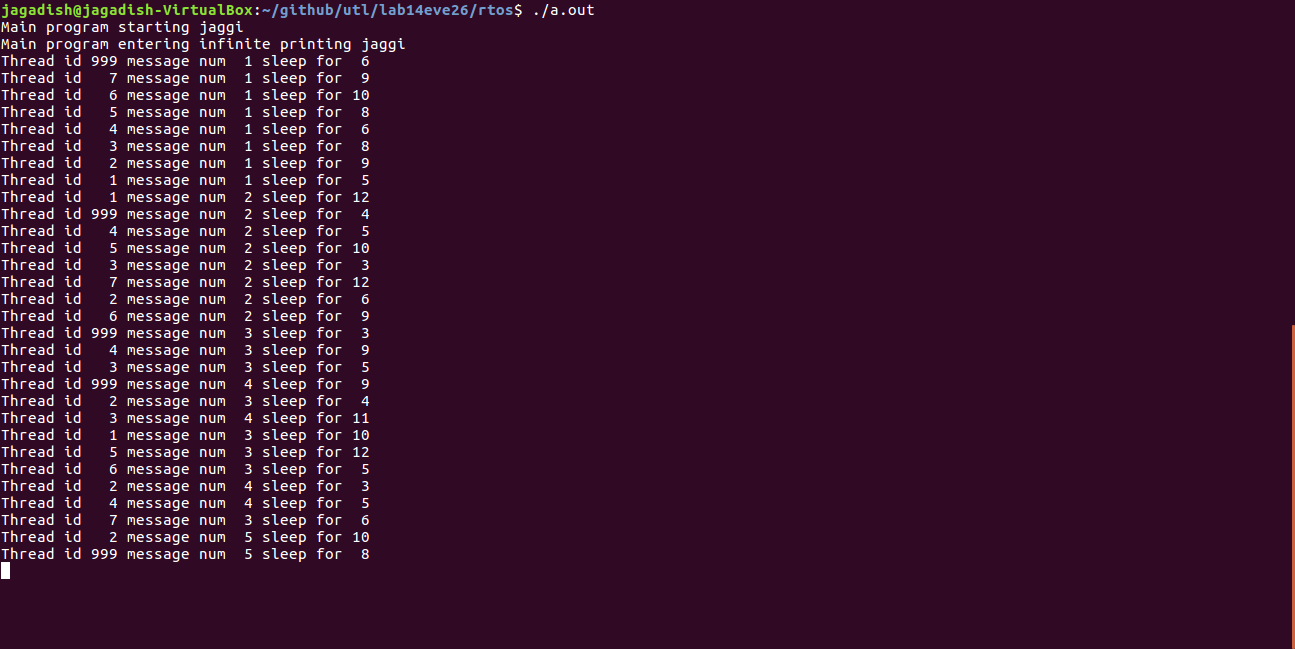
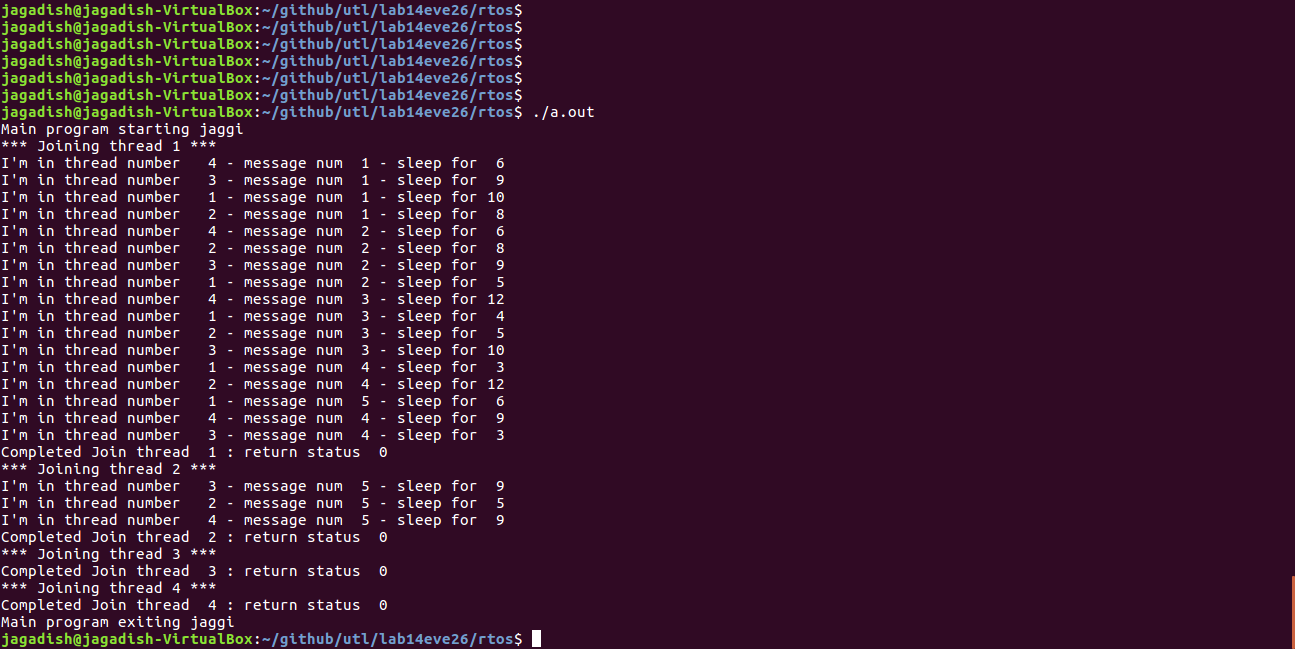
included join functionality

Changed region(s): [[0.0, 0.0308, 0.4633, 1.0], [0.9884, 0.4931, 1.0, 0.8937], [0.4015, 0.0, 0.4633, 0.0308]]

diff --git a/lab14eve26/rtos/j01_createMultipleChildThreads.c b/lab14eve26/rtos/j01_createMultipleChildThreads.c
@@ -3,8 +3,10 @@
 #include <unistd.h>
 #include <pthread.h>
 
-#define NUM_CHILD_THREADS 7
-#define NUM_OF_PRINTS 9
+#define NUM_CHILD_THREADS 4
+#define NUM_OF_PRINTS 5
+
+pthread_t childThreads[NUM_CHILD_THREADS];
 
 // Note the pointer * to function name as well as argument
 void *printContinuously(void *arg)
@@ -16,33 +18,56 @@ void *printContinuously(void *arg)
 	for(int m=1; m<=NUM_OF_PRINTS; m++)
 	{
 		sleepValue = 3 + rand() % 10;// value between 3 and 13 seconds
-		printf("Thread id %3ld message num %2d sleep for %2d\n",tid, m, sleepValue);
+		printf("I'm in thread number %3ld - message num %2d - sleep for %2d\n",tid, m, sleepValue);
 		sleep(sleepValue);
 	}
 }
 
 void createChildThreads()
 {
-	pthread_t childThreads[NUM_CHILD_THREADS];
-
 	int rc;
-	for(int t=0; t<NUM_CHILD_THREADS; t++)
+	int t;
+
+	// Initialize the thread to be joinable
+	pthread_attr_t attribute;
+	pthread_attr_init(&attribute);
+	pthread_attr_setdetachstate(&attribute, PTHREAD_CREATE_JOINABLE);
+	// Start creating the child threads
+	for(t=0; t<NUM_CHILD_THREADS; t++)
 	{
-		rc = pthread_create(&childThreads[t], NULL, printContinuously, (void *)t+1);
+		rc = pthread_create(&childThreads[t], &attribute, printContinuously, (void *)t+1);
 		if(rc)
 		{
-			printf("Error creating thread %d : return code %d\n", t, rc);
+			printf("Error creating thread %2d : return code %2d\n", t, rc);
 			return;
 		}
 	}
+	// Free up the attribute
+	pthread_attr_destroy(&attribute);
+
+	// Start joining the threads
+	// NOTE only one thread can be joined at a time
+	void *status;
+	for(t=0; t<NUM_CHILD_THREADS; t++)
+	{
+		printf("*** Joining thread %d ***\n", t+1);
+		rc = pthread_join(childThreads[t], &status);
+		if(rc)
+		{
+			printf("Error joining thread %2d : return code %2d\n", t+1, rc);
+		}
+		printf("Completed Join thread %2d : return status %2ld\n", t+1, (long)status);
+	}
+
 }
 
 int main(int argc, char *argv[])
 {
 	printf("Main program starting %s\n", "jaggi");
 	createChildThreads();
-	printf("Main program entering infinite printing %s\n", "jaggi");
-	printContinuously((void *)999);
+	//printf("Main program entering infinite printing %s\n", "jaggi");
+	//printContinuously((void *)999);
+	printf("Main program exiting %s\n", "jaggi");
 	return 0;
 }
 
